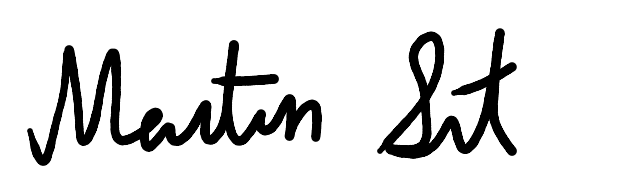
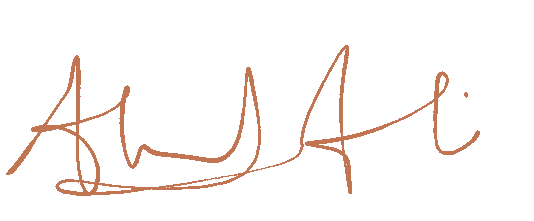
rev1#

Changed region(s): [[0.0, 0.1316, 0.8989, 0.8947], [0.5693, 0.3947, 0.5993, 0.5789], [0.8689, 0.4211, 0.8989, 0.4474]]

diff --git a/src/app/page.js b/src/app/page.js
@@ -1,122 +1,98 @@
 "use client";
 
+import Headshot from "@/app/assets/headshot.png";
+import SignaturePNG from "@/app/assets/signature.png";
 import Link from "./components/Link";
 import NextLink from "next/link";
-import Headshot from "@/app/assets/headshot.png";
-import Signature from "@/app/components/Signature";
-import ShopifyLogo from "@/app/components/icon/Shopify.png";
-import UWaterlooLogo from "@/app/components/icon/UWaterloo.png";
-import SunnybrookLogo from "@/app/components/icon/Sunnybrook.png";
-import JAMHacksLogo from "@/app/components/icon/JAMHacks.png";
-import StAugustineLogo from "@/app/components/icon/StAugustine.png";
 import Image from "next/image";
 import { useState } from "react";
 import { GalleryHorizontalEnd } from "lucide-react";
 
 export default function About() {
   return (
-    <div className="flex flex-col max-w-2xl mx-auto">
+    <div className="flex flex-col max-w-screen-xl mx-auto px-6">
+      <div className="flex flex-col sm:flex-row items-center justify-between mt-4">
+        <div className="relative flex-1 flex items-center">
+          <Image
+            src={SignaturePNG}
+            alt="Ahmad Ali signature"
+            priority
+            className="w-full h-auto max-w-xs"
+          />
+        </div>
+        <div className="w-48 h-48 relative rounded-full border-2 border-stone-200 dark:border-stone-700 shadow-lg overflow-hidden bg-stone-50 dark:bg-stone-800">
+          <Image
+            src={Headshot}
+            alt="Ahmad Ali Headshot"
+            fill
+            className="object-cover object-center rounded-full transform scale-80"
+          />
+        </div>
+      </div>
       <ul className="grid gap-1 text-base">
         <li className="group flex items-start gap-4 pl-4 relative hover:translate-x-1 transition-transform duration-200">
           <div className="absolute left-0 top-[10px] w-[6px] h-[6px] bg-stone-800 dark:bg-stone-200 rotate-45 transform transition-all duration-300 group-hover:rotate-90 group-hover:scale-110" />
           <span className="text-stone-600 dark:text-stone-400">
-            incoming SWE Intern @ {" "}
-            <span className="inline-flex items-baseline gap-1">
-              <Image src={ShopifyLogo} alt="Shopify Logo" width={14} height={14} className="object-contain relative top-[2px]" />
-              <Link href="https://shopify.com" className="font-medium">
-                Shopify
-              </Link>
-            </span> (summer 2025)
+            ee @ <span className="font-medium">McMaster University</span>
           </span>
         </li>
         <li className="group flex items-start gap-4 pl-4 relative hover:translate-x-1 transition-transform duration-200">
           <div className="absolute left-0 top-[10px] w-[6px] h-[6px] bg-stone-800 dark:bg-stone-200 rotate-45 transform transition-all duration-300 group-hover:rotate-90 group-hover:scale-110" />
           <span className="text-stone-600 dark:text-stone-400">
-            cs @ {" "}
-            <span className="inline-flex items-baseline gap-1">
-              <Image src={UWaterlooLogo} alt="UWaterloo Logo" width={14} height={14} className="object-contain relative top-[2px]" />
-              <Link href="https://uwaterloo.ca" className="font-medium">
-                UWaterloo
-              </Link>
-            </span>
-          </span>
-        </li>
-        <li className="group flex flex-col gap-3 pl-4 relative hover:translate-x-1 transition-transform duration-200">
-          <div className="absolute left-0 top-[10px] w-[6px] h-[6px] bg-stone-800 dark:bg-stone-200 rotate-45 transform transition-all duration-300 group-hover:rotate-90 group-hover:scale-110" />
-          <span className="text-stone-600 dark:text-stone-400 italic font-medium">recently:</span>
-          <ul className="grid gap-1 pl-4">
-            <li className="relative flex items-start gap-4 group/item">
-              <span className="absolute left-[-20px] top-0 text-stone-500 dark:text-stone-500">↳</span>
-              <span className="text-stone-600 dark:text-stone-400">
-                created{" "}
-                <Link href="https://tryvibedraw.com" className="font-medium">
-                  Cursor for 3D modeling
-                </Link>{" "}
-                (3M+ views, 1,600+ stars, inbound VC interest from Sequoia, a16z, GC, others)
-              </span>
-            </li>
-            <li className="relative flex items-start gap-4 group/item">
-              <span className="absolute left-[-20px] top-0 text-stone-500 dark:text-stone-500">↳</span>
-              <span className="text-stone-600 dark:text-stone-400">
-                shipped a{" "}
-                <Link href="https://jakesresu.me" className="font-medium">
-                  product
-                </Link>{" "}
-                in &lt; 2 days to 10,000+ users
-              </span>
-            </li>
-            <li className="relative flex items-start gap-4 group/item">
-              <span className="absolute left-[-20px] top-0 text-stone-500 dark:text-stone-500">↳</span>
-              <span className="text-stone-600 dark:text-stone-400">
-                did it again with another{" "}
-                <Link href="https://justslideitin.com" className="font-medium">
-                  product
-                </Link>{" "}
-                (1,000+ users in &lt; 24 hours)
-              </span>
-            </li>
-            <li className="relative flex items-start gap-4 group/item">
-              <span className="absolute left-[-20px] top-0 text-stone-500 dark:text-stone-500">↳</span>
-              <span className="text-stone-600 dark:text-stone-400">
-                built a{" "}
-                <Link href="https://github.com/martin226/litenet" className="font-medium">
-                  deep learning framework
-                </Link>{" "}
-                from scratch in C++
-              </span>
-            </li>
-          </ul>
-        </li>
-        <li className="group flex items-start gap-4 pl-4 relative hover:translate-x-1 transition-transform duration-200">
-          <div className="absolute left-0 top-[10px] w-[6px] h-[6px] bg-stone-800 dark:bg-stone-200 rotate-45 transform transition-all duration-300 group-hover:rotate-90 group-hover:scale-110" />
-          <span className="text-stone-600 dark:text-stone-400">
-            in high school: ML research at{" "}
-            <span className="inline-flex items-baseline gap-1">
-              <Image src={SunnybrookLogo} alt="Sunnybrook Logo" width={14} height={14} className="object-contain relative top-[2px]" />
-              <Link href="https://sunnybrook.ca/research/" className="font-medium">
-                Sunnybrook
-              </Link>
-            </span>, research at{" "}
-            <span className="inline-flex items-baseline gap-1">
-              <Image src={UWaterlooLogo} alt="UWaterloo Logo" width={14} height={14} className="object-contain relative top-[2px]" />
-              <Link href="https://cs.uwaterloo.ca/~dbarrada/" className="font-medium">
-                UWaterloo
-              </Link>
-            </span>, organized{" "}
-            <span className="inline-flex items-baseline gap-1">
-              <Image src={JAMHacksLogo} alt="JAMHacks Logo" width={14} height={14} className="object-contain relative top-[2px]" />
-              <Link href="https://www.jamhacks.ca/" className="font-medium">
-                JAMHacks
-              </Link>
-            </span>, led my school&apos;s <span className="inline-flex items-baseline gap-1">
-              <Image src={StAugustineLogo} alt="St. Augustine Logo" width={14} height={14} className="object-contain relative top-[2px]" />
-              <Link href="https://app.staugustinechs.ca/" className="font-medium">
-                mobile app
-              </Link>
-            </span>
+            i like signals/control, robotics & electronics, machine learning & optics
           </span>
         </li>
       </ul>
+
+      {/* --- Experience Section --- */}
+      <section id="experience" className="mt-12 space-y-8">
+        <h2 className="text-2xl font-semibold">Experience</h2>
+
+        <article className="space-y-1">
+          <header className="flex justify-between items-baseline">
+            <h3 className="font-medium">Signals &amp; Automation Engineer</h3>
+            <span className="text-sm text-gray-400">May 2023 – Aug 2024</span>
+          </header>
+          <p className="text-sm text-gray-500">Alectra Inc. &bull; Internship</p>
+          <ul className="list-disc list-inside text-sm leading-snug text-gray-500">
+            <li>Developed image processing-driven OCR tools for single line diagrams to optimize SCADA commissioning.</li>
+            <li>Automated project tracking with Alteryx and version control.</li>
+            <li>Managed 20+ MW DER projects across Ontario, ensuring adherence to interconnection standards and grid compliance.</li>
+          </ul>
+        </article>
+
+        <article className="space-y-1">
+          <header className="flex justify-between items-baseline">
+            <h3 className="font-medium">Control Systems Analysis Engineer</h3>
+            <span className="text-sm text-gray-400">May 2022 – Aug 2022</span>
+          </header>
+          <p className="text-sm text-gray-500">Canadian Nuclear Laboratories &bull; Internship</p>
+          <ul className="list-disc list-inside text-sm leading-snug text-gray-500">
+            <li>Verified control schematics and single-line diagrams to support robust signals and controls architectures.</li>
+            <li>Contributed to data-driven feasibility studies for reactor decommissioning, emphasizing operational reliability.</li>
+            <li>Analyzed feeder/panel specifications and maintained change control logs to ensure system integrity.</li>
+          </ul>
+        </article>
+
+        <article className="space-y-1">
+          <header className="flex justify-between items-baseline">
+            <h3 className="font-medium">Digital Systems Integration Engineer</h3>
+            <span className="text-sm text-gray-400">May 2021 – Aug 2021</span>
+          </header>
+          <p className="text-sm text-gray-500">Department of National Defence &bull; Co-op</p>
+          <ul className="list-disc list-inside text-sm leading-snug text-gray-500">
+            <li>Developed custom scripts to automate facility record collection and streamline instrumentation data integration.</li>
+            <li>Integrated facility data (HVAC, boilers, air handlers) using version control and programming-enhanced digital modeling.</li>
+            <li>Updated base site plans in AutoCAD to accurately reflect building modifications impacting integrated systems.</li>
+          </ul>
+        </article>
+      </section>
+
+      {/* --- Projects Section --- */}
+      <section id="projects" className="mt-12 space-y-8">
+        <h2 className="text-2xl font-semibold">Projects</h2>
+        {/* Add your project entries here */}
+      </section>
 
       <NextLink
         href="/projects"
@@ -132,20 +108,6 @@ export default function About() {
         <Link href="/resume.pdf" className="font-medium">
           view my resume
         </Link>
-      </div>
-
-      <div className="flex flex-col sm:flex-row items-center justify-between mt-4">
-        <div className="relative flex-1 flex items-center">
-          <Signature />
-        </div>
-        <div className="w-48 h-48 relative rounded-full border-2 border-stone-200 dark:border-stone-700 shadow-lg overflow-hidden bg-stone-50 dark:bg-stone-800">
-          <Image
-            src={Headshot}
-            alt="Martin Sit Headshot"
-            fill
-            className="object-cover object-top rounded-full"
-          />
-        </div>
       </div>
     </div>
   );

diff --git a/src/app/layout.js b/src/app/layout.js
@@ -1,5 +1,5 @@
 import { Inter } from "next/font/google";
-import { GoogleAnalytics } from '@next/third-parties/google'
+import { GoogleAnalytics } from '@next/third-parties/google';
 import { SpeedInsights } from "@vercel/speed-insights/next";
 import "./globals.css";
 import Header from "./components/Header";
@@ -10,7 +10,7 @@ import ThemeProvider from "./components/ThemeProvider";
 const inter = Inter({ subsets: ["latin"] });
 
 export const metadata = {
-  title: "Martin Sit",
+  title: "Ahmad Ali",
   metadataBase: new URL("https://martinsit.ca"),
 };
 
@@ -22,9 +22,11 @@ export default function RootLayout({ children }) {
         <ThemeProvider>
           <main className="flex justify-center bg-stone-100 dark:bg-stone-900 min-h-screen selection:bg-yellow-200 dark:selection:bg-yellow-800 bg-[radial-gradient(#e5e7eb_1px,transparent_1px)] dark:bg-[radial-gradient(#1f2937_1px,transparent_1px)] [background-size:16px_16px]">
             <div className="flex flex-col gap-4 w-full md:max-w-[500px] m-6 md:m-20 text-neutral-500 dark:text-neutral-400 font-[380] md:mt-[60px]">
+              <div className="container flex flex-col gap-8 py-10">
               <Header />
               {children}
               <Footer />
+            </div>
             </div>
           </main>
           <CommandPalette />

diff --git a/src/app/components/Header.js b/src/app/components/Header.js
@@ -47,18 +47,12 @@ export default function Header({ className }) {
       isActive: pathname === "/projects",
       isNextLink: true,
     },
-    {
-      name: "writing",
-      href: "/writing",
-      isActive: pathname.startsWith("/writing"),
-      isNextLink: true,
-    },
   ];
 
   return (
     <div className="flex justify-between items-center">
       <h1 className="text-neutral-700 dark:text-neutral-300 font-semibold">
-        <Link href="/" isNextLink={true}>martin sit</Link>
+        <Link href="/" isNextLink={true}>ahmad ali</Link>
       </h1>
       <div className="flex items-center gap-6">
         <HorizontalNav links={links} />

diff --git a/tailwind.config.js b/tailwind.config.js
@@ -7,7 +7,13 @@ module.exports = {
   ],
   darkMode: 'class',
   theme: {
-    extend: {
+    extend: {      container: {
+              center: true,
+              padding: '2rem',
+              screens: {            //  ➜ 1440 px max‑width
+                "2xl": "1440px",
+              },
+            },
       backgroundImage: {
         "gradient-radial": "radial-gradient(var(--tw-gradient-stops))",
         "gradient-conic":
